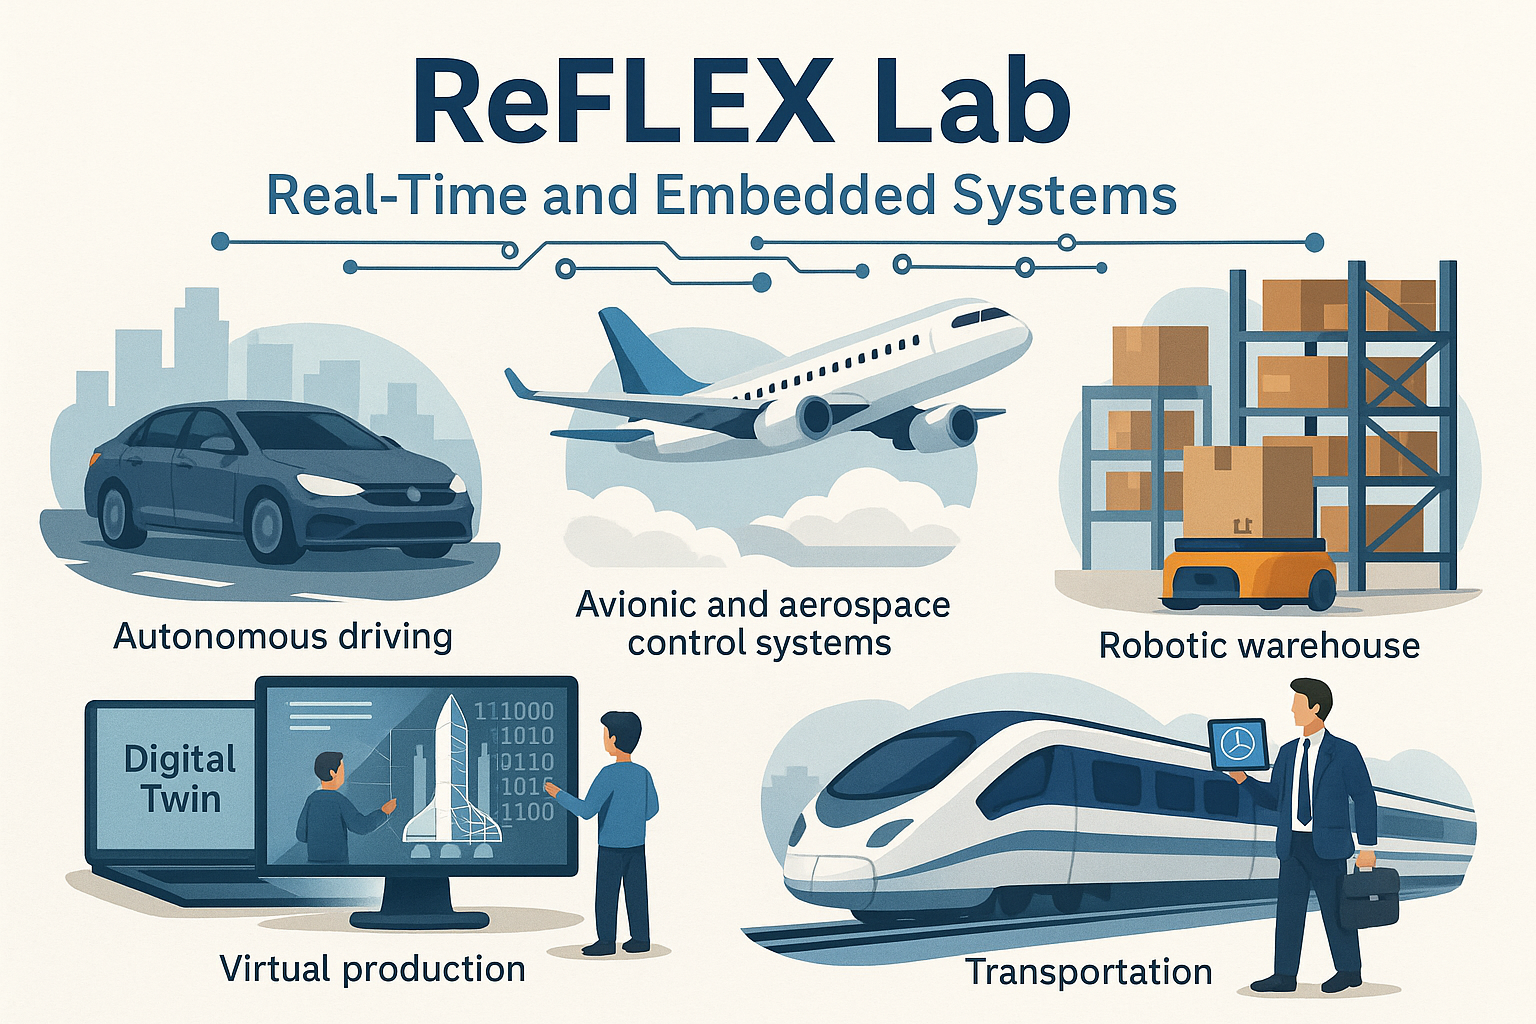
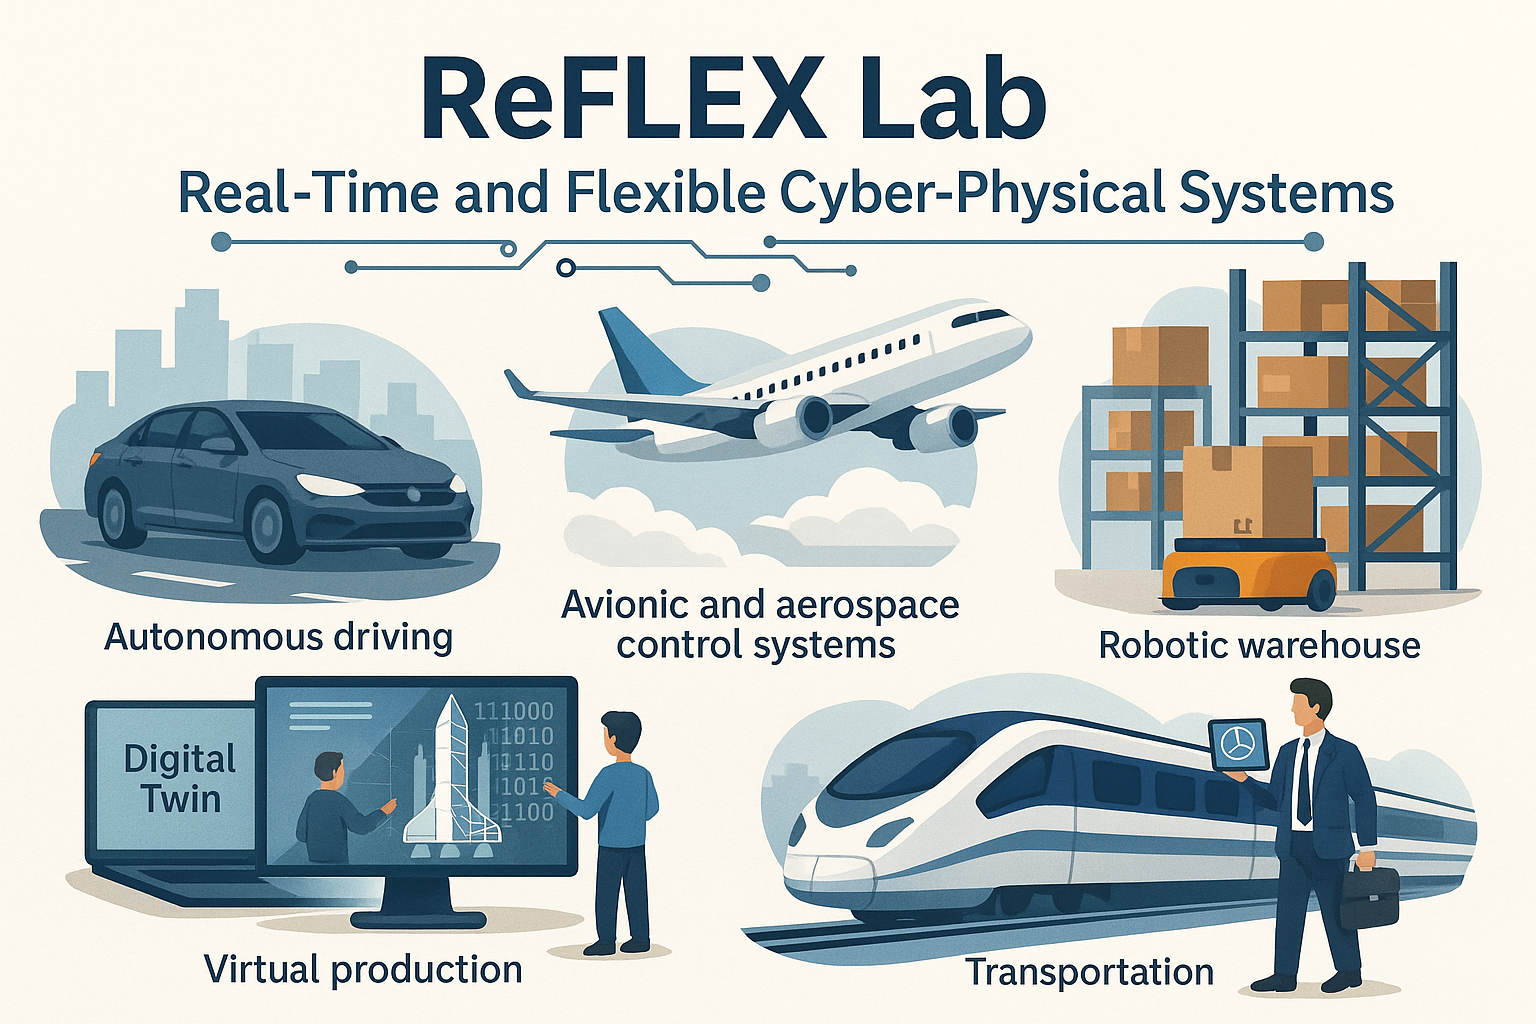
Some minor improvements

diff --git a/layouts/shortcodes/contact.html b/layouts/shortcodes/contact.html
@@ -17,7 +17,8 @@
     </p>
 
     <p>Lecturer (~Assistant Professor)<br>
-    Real-Time and Distributed Systems Research Group<br>
+    Director of ReFLEX Lab<br>
+    Real-Time and Distributed Systems Group<br>
     Department of Computer Science<br>
     University of York, UK
     </p>

diff --git a/content/_index.md b/content/_index.md
@@ -12,10 +12,12 @@ toc: false
 
 ---
 
-## About
-I am a Lecturer (equivalent to Assistant Professor) in the Department of Computer Science at the University of York, UK, where I lead the [Real-Time and Flexible Cyber-Physical Systems (ReFLEX) Lab](https://www.xiaotiandai.com/lab/). My research focuses on the scheduling and verification of real-time cyber-physical systems, with a particular emphasis on timing analysis and on improving scheduling flexibility and adaptability in safety-critical applications. These applications include robotics, autonomous vehicles, and other cyber-physical systems that must meet strict timing constraints.
 
-My work has contributed to innovative modeling, scheduling, and analysis techniques; digital twins for runtime improvement; and specialized hardware designs for safety-critical embedded systems. Many of these advancements have been adopted by industry. I am also actively involved in the robotics and autonomous systems (RAS) community, concentrating on ensuring operational safety, robustness, and resilience.
+
+## About
+I am a Lecturer in the Department of Computer Science at the University of York, UK, where I lead the [Real-Time and Flexible Cyber-Physical Systems (ReFLEX) Lab](https://www.xiaotiandai.com/lab/). My research focuses on the scheduling and verification of cyber-physical systems, with a particular emphasis on timing analysis and on improving scheduling flexibility and adaptability in safety-critical applications. The applications of my interest include robotics, autonomous vehicles, avionic systems and other cyber-physical systems that must meet strict timing constraints.
+
+My work has contributed to innovative modeling, scheduling, simulation, and analysis techniques; digital twins for runtime improvement; and specialized hardware designs for safety-critical embedded systems. Many of these advancements have been adopted by industry. I am also actively involved in the robotics and autonomous systems (RAS) community, concentrating on ensuring operational safety, robustness, and resilience.
 
 You can find more about my research interests and projects in [the research page](https://www.xiaotiandai.com/research). If you are interested in pursuing a PhD in real-time systems or cyber-physical systems, you can find more information on [PhD opportunities](https://www.xiaotiandai.com/lab/).
 
@@ -23,11 +25,11 @@ You can find more about my research interests and projects in [the research page
 
 *Short Bio:*
 
-From 2019 to 2023, I worked as a Research Associate on the [MOCHA research project](https://www.cs.york.ac.uk/rts/mocha/) (funded by Huawei), under the supervision of [Prof. Iain Bate](https://www-users.cs.york.ac.uk/~ijb/) and [Prof. Alan Burns](https://www-users.cs.york.ac.uk/~burns/) in the [Real-Time and Distributed Systems Research Group (RTDS)](https://www.cs.york.ac.uk/rts/index.html). The MOCHA project targets complex many-core architectures with demanding performance and timing requirements, leveraging digital twins and cache-aware scheduling to develop key techniques for next-generation 5G/6G communication base stations.
+From 2019 to 2023, I worked as a Research Associate on the [MOCHA research project](https://www.cs.york.ac.uk/rts/mocha/) (funded by Huawei), under the supervision of [Prof. Iain Bate](https://www-users.cs.york.ac.uk/~ijb/) and [Prof. Alan Burns](https://www-users.cs.york.ac.uk/~burns/) in the [Real-Time and Distributed Systems Research Group (RTDS)](https://www.cs.york.ac.uk/rts/index.html), which is the top real-time research group in the UK. The MOCHA project targets complex many-core architectures with demanding performance and timing requirements, leveraging digital twins and cache-aware scheduling to develop key techniques for next-generation 5G/6G communication base stations.
 
-Prior to MOCHA, I contributed to the EU H2020 [DEIS project](https://deis-project.eu) in 2019, collaborating with [Prof. Tim Kelly](https://www.cs.york.ac.uk/people/tpk) and [Prof. Ibrahim Habli](https://www.cs.york.ac.uk/people/ihabli). DEIS focused on model-based safety assurance—using the [Structured Assurance Case Metamodel (SACM)](https://www.omg.org/spec/SACM/2.0/About-SACM/) (now an OMG standard)—and developed corresponding tools for model-based autonomous and cyber-physical systems in partnership with AVL, Siemens, General Motors, and Fraunhofer.
+Prior to MOCHA, I contributed to the [EU H2020 DEIS project](https://deis-project.eu) in 2019, collaborating with [Prof. Tim Kelly](https://www.cs.york.ac.uk/people/tpk) and [Prof. Ibrahim Habli](https://www.cs.york.ac.uk/people/ihabli). DEIS focused on model-based safety assurance — using the [Structured Assurance Case Metamodel (SACM)](https://www.omg.org/spec/SACM/2.0/About-SACM/) (now an OMG standard) — and developed corresponding tools for model-based autonomous and cyber-physical systems in partnership with AVL, Siemens, General Motors, and Fraunhofer.
 
-I first joined the Real-Time Systems Group at York in 2015 as a PhD student under [Prof. Alan Burns](https://www-users.cs.york.ac.uk/~burns/), earning my PhD in 2019 with a Best Thesis award. Before that, I completed an MSc (with distinction) in Automatic Control and Systems Engineering at the University of Sheffield in 2014, following a BSc in Automatic Control in 2011. To date, I have published over 30 papers and regularly serve as a TPC member and reviewer for prominent conferences and journals in real-time systems, embedded systems, robotics, and design automation.
+I first joined the Real-Time Systems Group at York in 2015 as a PhD student under [Prof. Alan Burns](https://www-users.cs.york.ac.uk/~burns/), earning my PhD in 2019 with a Best Thesis award. Before that, I completed an MSc (with distinction) in Automatic Control and Systems Engineering at the University of Sheffield in 2014, following a BSc (with a first) in Automatic Control in 2011. To date, I have published over 30 papers and regularly serve as a TPC member and reviewer for prominent conferences and journals in real-time systems, embedded systems, robotics, and design automation.
 
 ---
 

diff --git a/content/lab.md b/content/lab.md
@@ -7,11 +7,11 @@ weight: 5
 toc: false
 ---
 
-![](/img/reflex-lab-logo.png)
-
-At ReFLEX Lab, we focus on advancing real-time and embedded systems across topics like scheduling on many-core architectures, harnessing digital twins for performance gains, ensuring reliable timing in robotics and AI, verifying long-lived cyber-physical systems, and innovating hardware for real-time and IoT solutions. Typical target systems of the lab include autonomous driving, avionic and aerospace control systems, robotic warehouse, virtual production and transportation. By blending theory and practice, we aim to push the boundaries of computing and deliver safer, more efficient technologies that can serve both industry and society.
+# ReFLEX Lab
 
 ![](/img/reflex_topics.png)
+
+At ReFLEX Lab, we focus on advancing real-time and embedded systems across topics like scheduling on many-core architectures, harnessing digital twins for performance gains, ensuring reliable timing in robotics and AI, verifying long-lived cyber-physical systems, and innovating hardware for real-time and IoT solutions. Typical target systems of the lab include autonomous driving, avionic and aerospace control systems, robotic warehouse, virtual production and transportation. By blending theory and practice, we aim to push the boundaries of computing and deliver safer, more efficient technologies that can serve both industry and society.
 
 ## Research Fellows
 - [Dr. Nan Chen](https://scholar.google.co.uk/citations?user=PIjEeDAAAAAJ&hl=en) (2023-2027), Adaptive Task and Resource Scheduling in Avionics (SCHEME project)
@@ -20,6 +20,9 @@ At ReFLEX Lab, we focus on advancing real-time and embedded systems across topic
 ## PhD Students
 - [Modie Al Shakarchi](https://www.maximodgames.com/) (2025-2027), *Real-time Adaptive Digital Twin Robotics for Virtual Production (RADIANT-VP)*, co-supervisor: Dr. Pengcheng Liu
 - [Dr. Zou Jie](https://scholar.google.co.uk/citations?user=unXFDCEAAAAJ&hl=en) (2019-2023), *Safety-Driven Timing-Predictable and Resource-Efficient Scheduling for Autonomous Systems*, co-supervisor: Prof. FREng. John McDermid → Research Fellow, University of York
+
+## Academic Visitors
+- Haochun Liang, Real-time containers for Mixed-Criticality Real-Time Systems
 
 ##  MSc Students
 - Xiyu Fang (2025), *Randomised DAG Generator*
@@ -80,7 +83,7 @@ I am happy to supervise the following research directions with some example topi
 
 Please drop me an email (xiaotian.dai (at) york.ac.uk) if you want to discuss this further. I am happy to discuss immature ideas and would appreciate it if a more detailed proposal ([details are here](https://www.york.ac.uk/study/postgraduate-research/apply/documents/proposal/)) could be provided to ease the discussion. The entry date for PhDs is normally in October, but other starting dates can be settled.
 
-The department is offering a limited number of studentships, [details can be found here](https://www.york.ac.uk/computer-science/study/postgraduate-research/funding/). If you are from China, please find details on the [China Scholarships Council Scholarship (CSC)](https://www.york.ac.uk/study/postgraduate-research/funding/china-council-scholarships/). 
+The department is offering a limited number of studentships, [details can be found here](https://www.york.ac.uk/computer-science/study/postgraduate-research/funding/). If you are from China, please find details on the [China Scholarships Council Scholarship (CSC)](https://www.york.ac.uk/study/postgraduate-research/funding/china-council-scholarships/).
 
 ---
 

diff --git a/content/teaching.md b/content/teaching.md
@@ -7,40 +7,43 @@ weight: 7
 toc: false
 ---
 
----
-
+# Teaching
 I believe in fostering a dynamic and interactive learning environment that encourages critical thinking and practical application of knowledge. My goal is to inspire students to become independent problem-solvers and lifelong learners in the field of computer science.
 
 
 ## Embedded Systems Design & Implementation (EMBS)
-- [2024/25 Spring](https://www.york.ac.uk/students/studying/manage/programmes/module-catalogue/module/COM00003H/2024-25) | [2023/24 Spring](https://www.york.ac.uk/students/studying/manage/programmes/module-catalogue/module/COM00003H/2023-24)
-- For UG (Stage 3 & 4) / PGT students
+[2024/25 Spring](https://www.york.ac.uk/students/studying/manage/programmes/module-catalogue/module/COM00003H/2024-25) | [2023/24 Spring](https://www.york.ac.uk/students/studying/manage/programmes/module-catalogue/module/COM00003H/2023-24)
+
+- Module Leader
 - @ University of York
+- For UG (Stage 3 & 4) / PGT students
 
 This course covers the principles and practices of embedded systems design, including real-time operating systems, hardware-software co-design, and IoT applications.
 
 
 
 ## High Performance Computing Systems (HIPC)
-- [2024/25 Fall](https://www.york.ac.uk/students/studying/manage/programmes/module-catalogue/module/COM00036H/2024-25) | [2023/24 Fall](https://www.york.ac.uk/students/studying/manage/programmes/module-catalogue/module/COM00036H/2023-24) | [2022/23 Spring](https://www.york.ac.uk/students/studying/manage/programmes/module-catalogue/module/COM00036H/2022-23) | [2021/22 Spring](https://www.york.ac.uk/students/studying/manage/programmes/module-catalogue/module/COM00036H/2021-22)
-- For UG (Stage 3 & 4) / PGT students
+[2024/25 Fall](https://www.york.ac.uk/students/studying/manage/programmes/module-catalogue/module/COM00036H/2024-25) | [2023/24 Fall](https://www.york.ac.uk/students/studying/manage/programmes/module-catalogue/module/COM00036H/2023-24) | [2022/23 Spring](https://www.york.ac.uk/students/studying/manage/programmes/module-catalogue/module/COM00036H/2022-23) | [2021/22 Spring](https://www.york.ac.uk/students/studying/manage/programmes/module-catalogue/module/COM00036H/2021-22)
+
+- Module Co-Leader
 - @ University of York
+- For UG (Stage 3 & 4) / PGT students
 
 This course explores advanced topics in high performance computing, including parallel programming models, performance optimization, and emerging architectures.
 
 
-## Past Modules
+## Previous Modules
 As a Teaching Assistant @ University of York:
 
 | Year | Semester | Course |
 |------|----------|--------|
 | 2019/20 | Spring | Design of Analysable Real-Time Systems [DART] |
-| 2016/17 | Fall | Embedded System Projects II [EMPR-II] | 
+| 2016/17 | Fall | Embedded System Projects II [EMPR-II] |
 | 2016/17 | Spring | Embedded System Projects I [EMPR-I] |
-| 2016/17 | Summer | Programmable Microcontroller [PROM] | 
-| 2015/16 | Summer | Programmable Microcontroller [PROM] | 
-| 2016/17 | Spring | Mathematical Foundations of Computer Systems [MFCS] | 
-| 2015/16 | Spring | Introduction to Computer Architecture [ICAR] | 
+| 2016/17 | Summer | Programmable Microcontroller [PROM] |
+| 2015/16 | Summer | Programmable Microcontroller [PROM] |
+| 2016/17 | Spring | Mathematical Foundations of Computer Systems [MFCS] |
+| 2015/16 | Spring | Introduction to Computer Architecture [ICAR] |
 
 
 ---

diff --git a/content/services.md b/content/services.md
@@ -7,8 +7,8 @@ weight: 4
 toc: false
 ---
 
----
 
+# Services
 ## Professional Affiliations
 
 - Member of Real-Time and Distributed Systems Research Group (RTDS), University of York, UK
@@ -75,7 +75,7 @@ toc: false
 - (<u>RAS</u>) Robotics and Autonomous Systems, Elsevier
 - (<u>RA-L</u>) The IEEE Robotics and Automation Letters
 - (<u>TAAS</u>) ACM Transactions on Autonomous and Adaptive Systems
-- (<u>JATS</u>) ACM Journal on Autonomous Transportation Systems 
+- (<u>JATS</u>) ACM Journal on Autonomous Transportation Systems
 - (<u>TSTE</u>) IEEE Transactions on Sustainable Energy
 - (<u>COR</u>) Computers & Operations Research, Elsevier
 - (<u>NEUNET</u>) Neural Networks

diff --git a/content/research.md b/content/research.md
@@ -7,8 +7,7 @@ weight: 2
 toc: false
 ---
 
----
-
+# Research
 ## Research Interests
 
 My research lies at the intersection of real-time embedded systems (RTES), cyber-physical systems (CPS), and robotics and autonomous systems (RAS). The overarching vision is to advance the development of adaptive, safe, and predictable engineering systems. My key research areas include:

diff --git a/content/publications.md b/content/publications.md
@@ -7,6 +7,8 @@ weight: 3
 toc: false
 ---
 
+# Pulications
+
 ---
 
 For a full list of publications, please visit my [Google Scholar](https://scholar.google.co.uk/citations?hl=en&user=G7dzNUkAAAAJ&view_op=list_works&sortby=pubdate) | [dblp](https://dblp.org/pid/199/5323.html).
